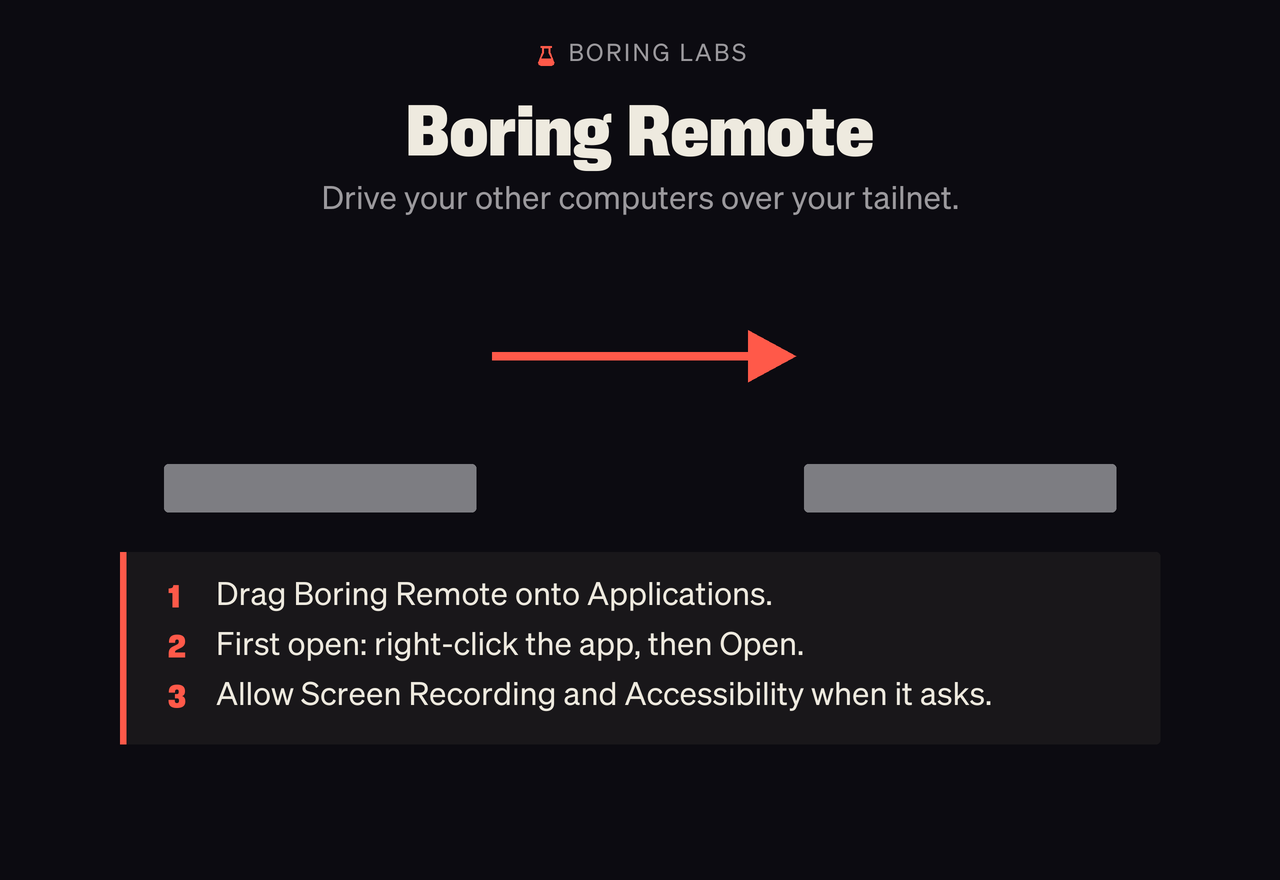
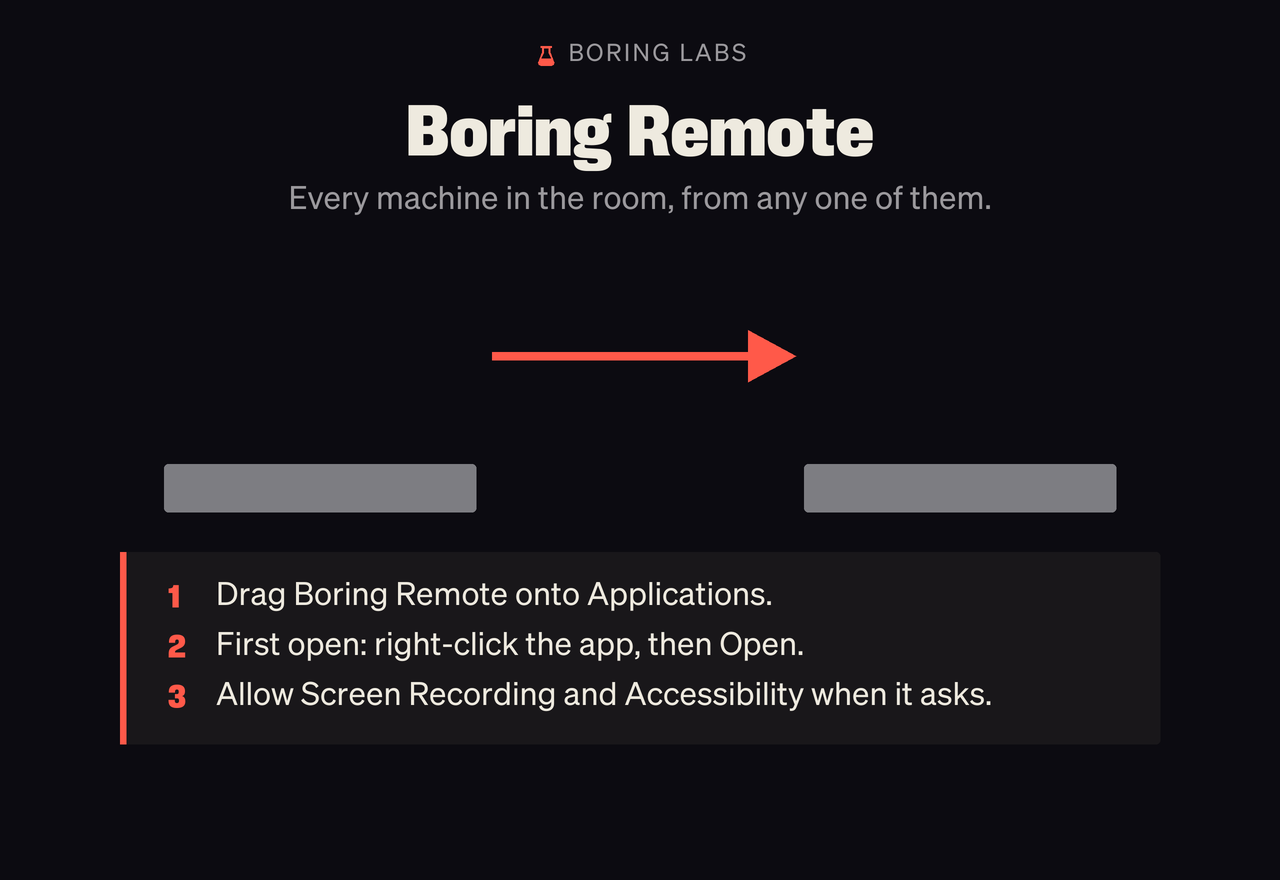
boring: DMG line says what the app does, with no tailnet in it
Direct Link and LAN don't need a tailnet.

Claude-Session: https://claude.ai/code/session_01RSN8zhWTef4UTeJA9dD8iG

Changed region(s): [[0.2188, 0.2148, 0.7812, 0.2455]]

diff --git a/boring/dmg/make_art.py b/boring/dmg/make_art.py
@@ -60,7 +60,7 @@ def background(fonts, scale):
     d.polygon(flask(d, (W - ew) / 2, 22, 12), fill=INK)
     text(d, ((W - ew) / 2 + 17, 21), "BORING LABS", label, MUTED, kern=1.2)
     centred(d, 40, "Boring Remote", face(fonts, "neue-corp-ultrabold.otf", 36), PAPER)
-    centred(d, 92, "Drive your other computers over your tailnet.", face(fonts, BODY, 16), MUTED)
+    centred(d, 92, "Every machine in the room, from any one of them.", face(fonts, BODY, 16), MUTED)
 
     # Drag arrow between the icons.
     y = APP_XY[1]
